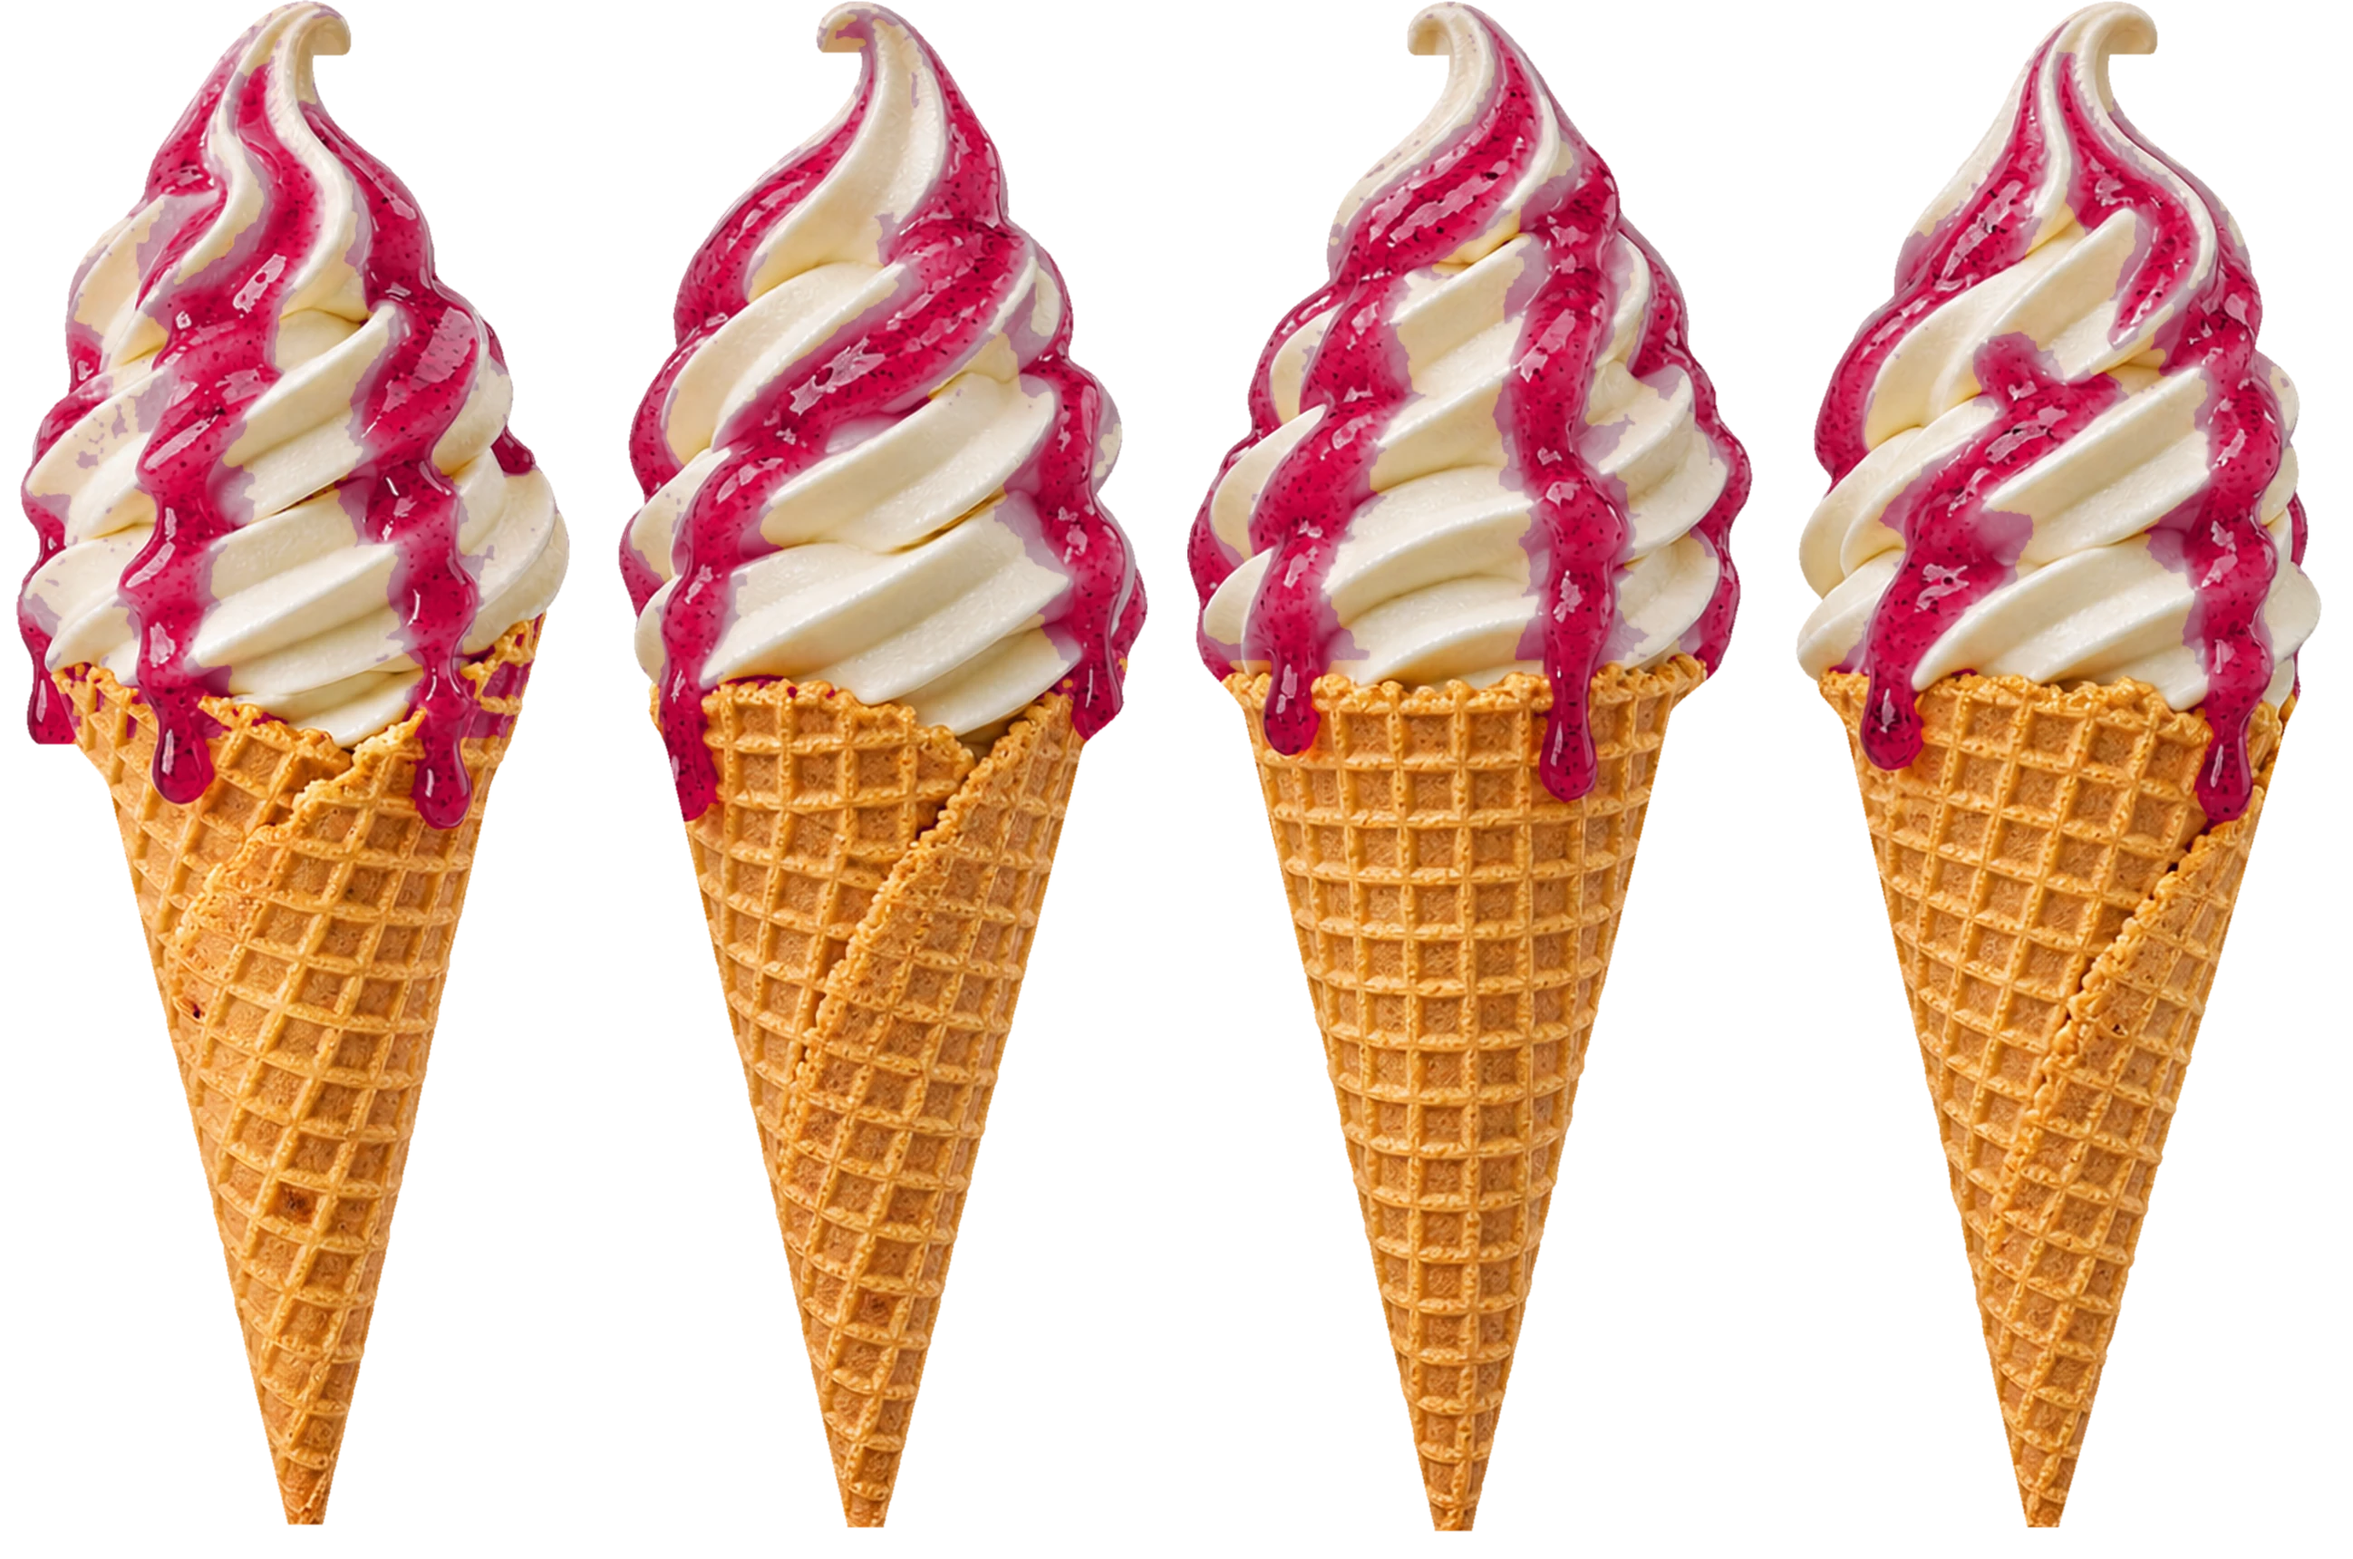
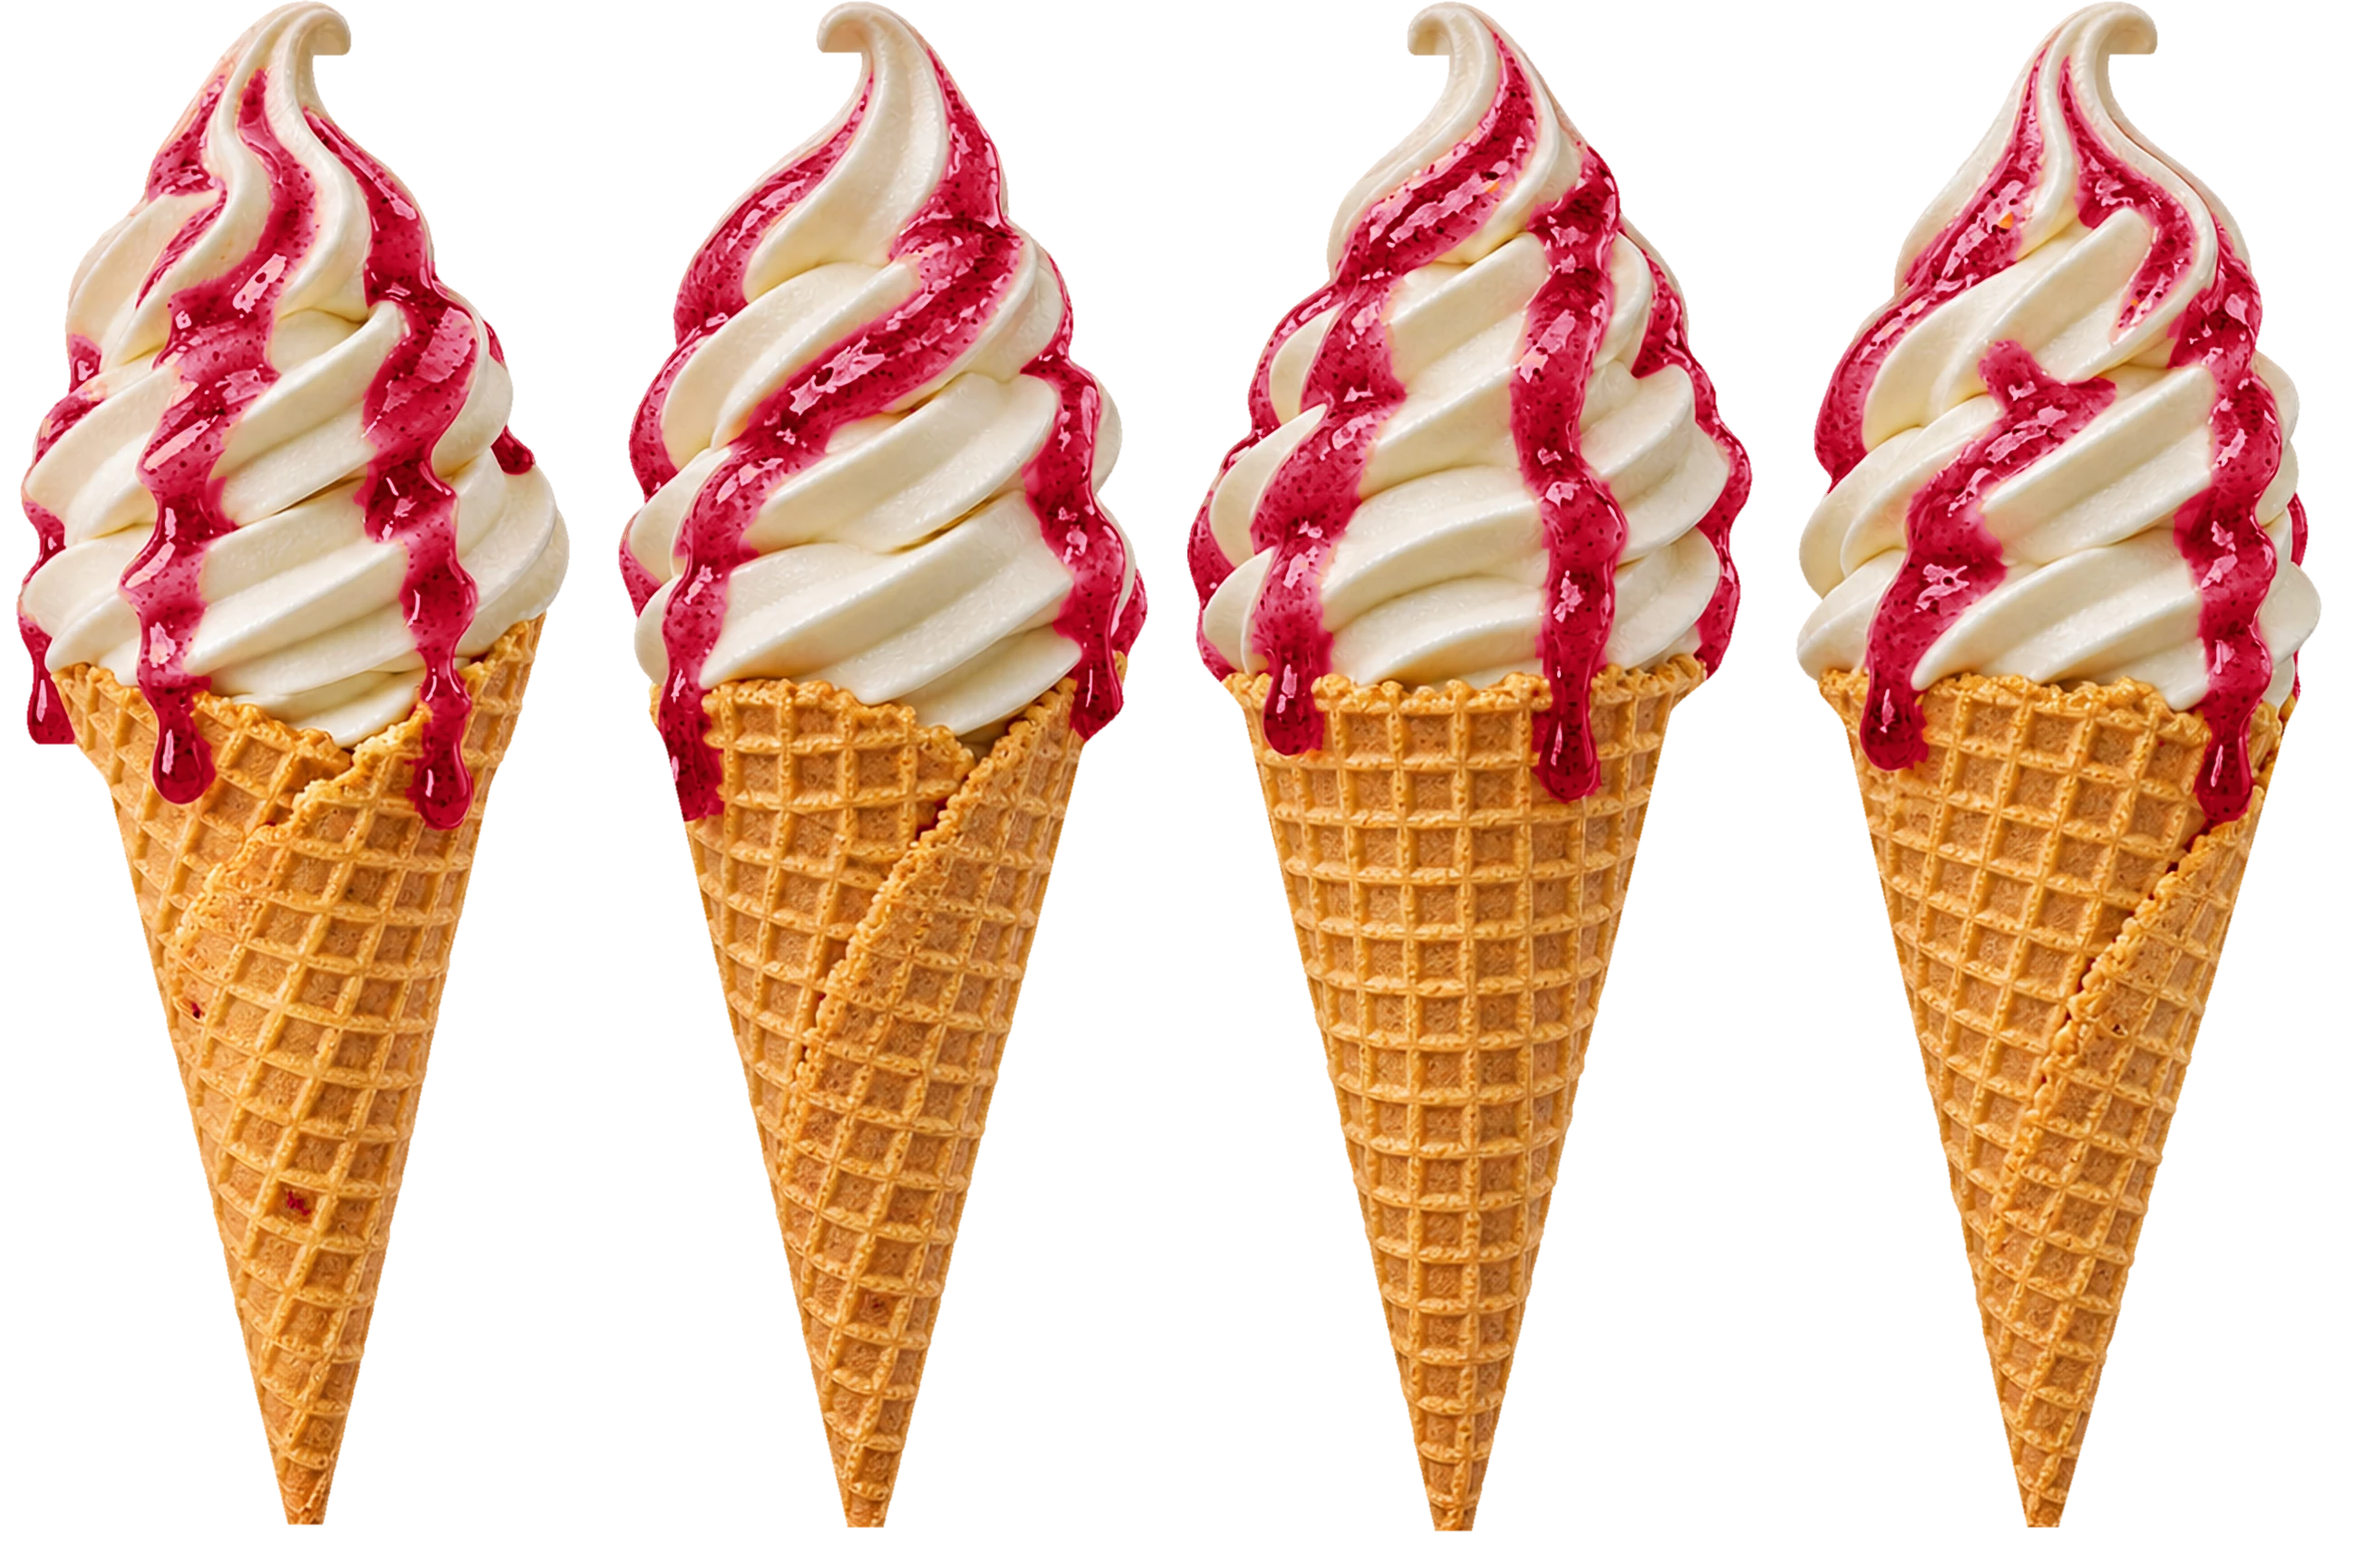
Джем малины и ежевики — палитра с настоящих фото по яркости, строже маска; панель адресов белая, без цифр

Changed region(s): [[0.0, 0.0, 0.9985, 0.5238]]

diff --git a/src/components/Find.tsx b/src/components/Find.tsx
@@ -39,7 +39,7 @@ const yandex = (place: string, city: string) => `https://yandex.ru/maps/?text=${
 const gis = (slug: string) => `https://2gis.ru/${slug}/search/${encodeURIComponent("мороженое")}`;
 
 // Блок «Киоски»: заголовок и переключатель городов сверху, ниже — карта в рамке со списком киосков поверх.
-// Метки пронумерованы и связаны со списком: наведение на строку подсвечивает метку и наоборот.
+// Метки связаны со списком: наведение на строку подсвечивает метку и наоборот.
 export default function Find() {
   const [ci, setCi] = useState(0);
   const [hot, setHot] = useState<number | null>(null);
@@ -132,10 +132,6 @@ export default function Find() {
                       <g transform="translate(-21 -62) scale(1.32)">
                         <Mark />
                       </g>
-                      <circle className={s.numBg} cx="22" cy="-62" r="12" />
-                      <text className={s.num} x="22" y="-57.5" textAnchor="middle">
-                        {i + 1}
-                      </text>
                       <text className={s.pinLabel} y="28" textAnchor="middle">
                         {k.name}
                       </text>
@@ -170,7 +166,7 @@ export default function Find() {
                   onFocus={() => setHot(i)}
                   onBlur={() => setHot(null)}
                 >
-                  <span className={s.n}>{i + 1}</span>
+                  <i className={s.dot} />
                   {k.name}
                   <Arrow />
                 </a>

diff --git a/src/components/find.module.scss b/src/components/find.module.scss
@@ -178,13 +178,6 @@
   fill: #fff;
   filter: drop-shadow(0 6px 8px rgba(40, 10, 20, 0.22));
 }
-.numBg { fill: var(--ink); }
-.num {
-  font-family: var(--font-sans), system-ui, sans-serif;
-  font-weight: 800;
-  font-size: 13px;
-  fill: var(--cream);
-}
 .pulse {
   fill: color-mix(in srgb, var(--accent) 30%, transparent);
   transform-box: fill-box;
@@ -232,9 +225,7 @@
   flex-direction: column;
   padding: u(28) u(26) u(26);
   border-radius: u(26);
-  background: color-mix(in srgb, var(--bg) 84%, transparent);
-  backdrop-filter: blur(16px);
-  -webkit-backdrop-filter: blur(16px);
+  background: #fff;
   box-shadow: 0 u(20) u(40) color-mix(in srgb, var(--ink) 10%, transparent);
   @include mobile {
     position: relative;
@@ -259,7 +250,7 @@
   }
   a {
     display: grid;
-    grid-template-columns: u(30) minmax(0, 1fr) auto;
+    grid-template-columns: u(10) minmax(0, 1fr) auto;
     align-items: center;
     gap: u(12);
     padding: u(11) u(12);
@@ -270,22 +261,17 @@
     svg { opacity: 0; transform: translateX(u(-6)); transition: opacity 0.3s, transform 0.3s var(--ease); }
     &[data-hot],
     &:focus-visible {
-      background: color-mix(in srgb, #fff 70%, transparent);
+      background: color-mix(in srgb, var(--bg) 70%, #fff);
       svg { opacity: 1; transform: none; }
     }
     &:focus-visible { outline: u(2) solid var(--ink); }
   }
 }
-.n {
-  display: grid;
-  place-items: center;
-  width: u(28);
-  height: u(28);
+.dot {
+  width: u(10);
+  height: u(10);
   border-radius: 50%;
-  background: var(--ink);
-  color: var(--cream);
-  font-weight: 800;
-  font-size: max(12px, #{u(12)});
+  background: var(--accent);
 }
 @keyframes rowIn {
   from { opacity: 0; transform: translateX(u(-12)); }

diff --git a/scripts/build-cone.py b/scripts/build-cone.py
@@ -55,18 +55,37 @@ def body_fill(v):
 def jam_mask(v, rim):
     hsv = cv2.cvtColor(v[:, :, :3], cv2.COLOR_RGB2HSV).astype(np.float32)
     h, s = hsv[:, :, 0], hsv[:, :, 1]
+    rgbf = v[:, :, :3].astype(np.float32)
     fg = v[:, :, 3] > 20
-    H = v.shape[0]
-    yy = np.arange(H)[:, None]
-    core = ((h < 9) | (h > 165)) & (s > 95) & fg
-    soft = ((h < 15) | (h > 150)) & (s > 38) & fg & (yy < rim)  # на пломбире джем бывает полупрозрачным
+    # джем заметно краснее всего остального: вафля рыжая (R/G ≈ 1.35), тени пломбира тёплые (≈ 1.1), джем — от 1.6
+    redness = rgbf[:, :, 0] / np.maximum(rgbf[:, :, 1], 1)
+    core = ((h < 9) | (h > 165)) & (s > 95) & fg & (redness > 1.7)
+    soft = ((h < 11) | (h > 162)) & (s > 50) & fg & (redness > 1.55)  # полупрозрачный джем на пломбире
     m = (core | soft).astype(np.uint8)
     m = cv2.morphologyEx(m, cv2.MORPH_OPEN, np.ones((3, 3), np.uint8))
     m = cv2.morphologyEx(m, cv2.MORPH_CLOSE, cv2.getStructuringElement(cv2.MORPH_ELLIPSE, (9, 9)))
     return np.clip(cv2.GaussianBlur(m.astype(np.float32), (5, 5), 0) * 1.3, 0, 1)
 
-# перекраска джема: тон и насыщенность — как у ягоды, яркость (рельеф, семечки, блики) — с фото
-JAM = {"raspberry": (171, 1.0, 0.86), "blackberry": (161, 0.82, 0.4)}  # тон OpenCV (0–180), × насыщенность, × яркость
+# перекраска джема: палитра с настоящих фото пользователя (малина, ежевика) — по яркости.
+# Каждому пикселю клубничного джема даём цвет той же «доли яркости» из настоящего джема: тени, семечки, блики сохраняются.
+REF = {
+    "raspberry": "C:/Users/slida/Downloads/Ванильное мороженое с малиновым джемом.png",
+    "blackberry": "C:/Users/slida/Downloads/Ванильное мороженое с ежевичным джемом-1.png",
+}
+def ref_palette(path):
+    r = np.array(Image.open(path).convert("RGBA"))
+    hsv = cv2.cvtColor(r[:, :, :3], cv2.COLOR_RGB2HSV).astype(np.float32)
+    h, s_, v = hsv[:, :, 0], hsv[:, :, 1], hsv[:, :, 2]
+    # джем на фото: пурпурно-малиновый, насыщенный (вафля — оранжевая, пломбир — бесцветный)
+    m = (r[:, :, 3] > 200) & (((h >= 130) & (s_ > 60)) | ((h < 6) & (s_ > 90) & (v < 200)))
+    px = r[:, :, :3][m].astype(np.float32)
+    lum = px @ np.array([0.299, 0.587, 0.114])
+    order = np.argsort(lum)
+    px = px[order]
+    # 256 ступеней по доле яркости: средний цвет каждой
+    bins = np.array_split(np.arange(len(px)), 256)
+    return np.array([px[b].mean(0) for b in bins])
+PAL = {k: ref_palette(v) for k, v in REF.items()}
 
 tiles = {k: [] for k in ["strawberry", "raspberry", "blackberry"]}
 prof_views = []
@@ -84,13 +103,14 @@ for k, v in enumerate(views):
         if name == "strawberry":
             col = rgb.astype(np.float32)
         else:
-            hue, sm, vm = JAM[name]
-            h2 = hsv.copy()
-            spec = np.clip((hsv[:, :, 2] - 225) / 30, 0, 1) * np.clip((90 - hsv[:, :, 1]) / 60, 0, 1)  # блики оставляем светлыми
-            h2[:, :, 0] = hue
-            h2[:, :, 1] = np.clip(hsv[:, :, 1] * sm, 0, 255)
-            h2[:, :, 2] = np.clip(hsv[:, :, 2] * (vm + (1 - vm) * spec), 0, 255)
-            jamc = cv2.cvtColor(h2.astype(np.uint8), cv2.COLOR_HSV2RGB).astype(np.float32)
+            # доля яркости пикселя среди всего джема этого ракурса → цвет той же доли у настоящего джема
+            lum = rgb.astype(np.float32) @ np.array([0.299, 0.587, 0.114])
+            sel = jm[:, :, 0] > 0.3
+            ranks = np.zeros_like(lum)
+            vals = np.sort(lum[sel])
+            ranks = np.searchsorted(vals, lum) / max(1, len(vals))
+            idx = np.clip((ranks * 255).astype(int), 0, 255)
+            jamc = PAL[name][idx]
             col = rgb.astype(np.float32) * (1 - jm) + jamc * jm
         t = np.zeros((TH, TW, 4), np.uint8)
         t[:, off : off + W, :3] = np.clip(col, 0, 255).astype(np.uint8)
